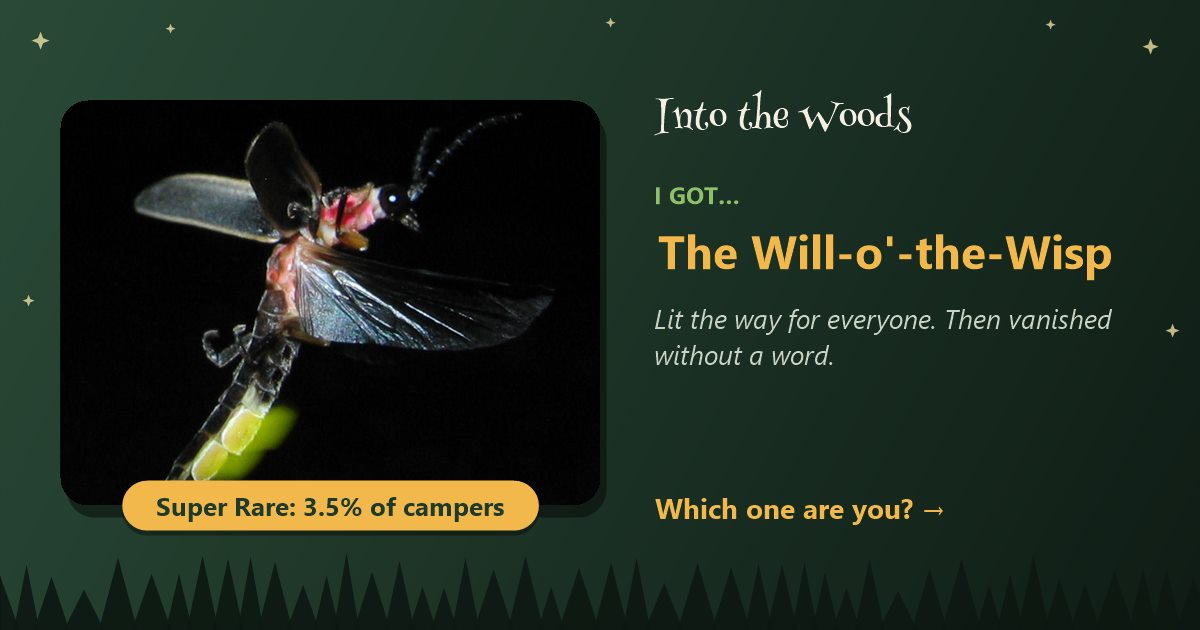
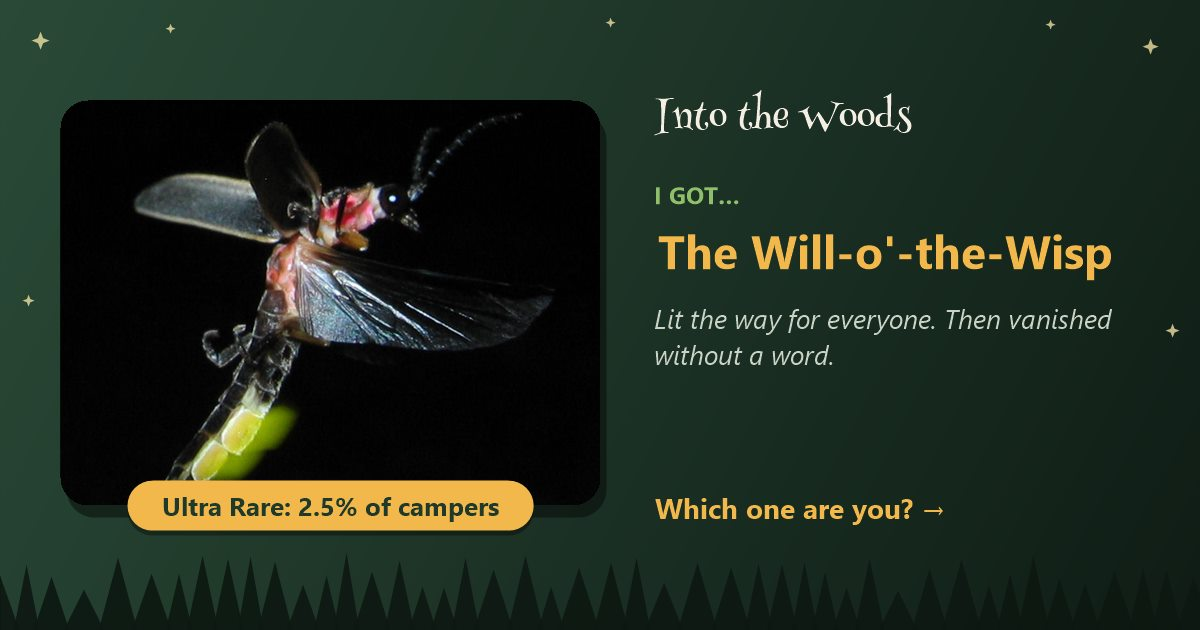
Remove logbook page, rewrite campsite answers, rebalance points
- Ranger's logbook page removed to shorten the story; its answers are
  retired so old share links still open.
- Campsite answers rewritten (two types each): sequined-hat life story
  (Bard/Glamper), leave half your snacks (Medic/Counselor), tent torn
  from the inside (Wanderer/Lookout). Old links map to the new answers.
- Pep talk back to "Pick a direction and GO."
- Rescue page: sheepish smile instead of a hug; Wisp 2 + Lone Wolf 1.
- Stick at the shadows: Trailblazer 2 + Lone Wolf 1.
- RARITY updated from 40,000 random runs; share cards regenerated.

Changed region(s): [[0.0925, 0.754, 0.4625, 0.8444]]

diff --git a/script.js b/script.js
@@ -65,14 +65,21 @@
    Then two Survivalist answers were rewritten as real Medic answers
    (page 4: "Find my friends before I find the road. I'm the one with
    the bear spray." and page 9: "Toward the crying. It sounds like
-   someone is hurt."). Last check (late Nov 2026): 12,000 random runs:
-     Medic 15.0, Counselor 15.0, Survivalist 11.1, Camper 9.1,
-     Scout 9.0, Glamper 8.3, Bard 7.7, Trailblazer 4.6, Mystic 4.6,
-     Lone Wolf 4.1, Schemer 3.5, Wisp 3.5, Lookout 2.4, Wanderer 2.2.
-   Known gap: the Trailblazer is high (4.6 vs 2), because the story has
-   lots of bold choices. Fix it with a rewritten answer, not points.
-   Someone who picks their own type's answer 60% of the time gets it
-   back 34-44% of the time for the rarest types and 51-92% for the rest.
+   someone is hurt.").
+   Nov 24, 2026: the ranger's logbook page was removed (story too long)
+   and the campsite rewritten to take over its Lookout, Wanderer and
+   Counselor answers. The Wisp and Trailblazer were about twice their
+   targets, so two of their answers now share a point with the Lone Wolf
+   (the silent ride home, and walking at the shadows with a stick).
+   Last check (Nov 24, 2026): 40,000 random runs:
+     Medic 17.8, Counselor 13.9, Survivalist 10.3, Bard 9.5, Scout 9.0,
+     Camper 8.3, Glamper 8.1, Lone Wolf 6.4, Mystic 4.0, Schemer 3.6,
+     Wanderer 3.2, Wisp 2.5, Trailblazer 1.9, Lookout 1.7.
+   Known gaps: the Survivalist and Counselor are a bit low and the Bard
+   and Lone Wolf a bit high. Fix them with rewritten answers, not points.
+   (Older check: someone who picks their own type's answer 60% of the
+   time got it back 34-44% of the time for the rarest types and 51-92%
+   for the rest. Not re-run since the logbook was removed.)
    These numbers are also the RARITY table further down: update both.
    Earlier check: a "sensible extrovert" (picks the reasonable
    extroverted answer 75% of the time) got the Lookout 0.1% of the time.
@@ -298,51 +305,31 @@ const ANSWERS = {
     text: "Took the backpack: finders keepers in bear country",
     points: { schemer: 2, lonewolf: 1 },
     outcome: "You yank the backpack down. Inside: cookies and a headlamp. The headlamp is dead. The cookies are not. You keep walking.",
-    next: "page-logbook",
-  },
-  iou: {
-    text: "Borrowed one granola bar and left a sorry note",
-    points: { medic: 2 },
-    outcome: "\"Sorry! I borrowed 1 granola bar (oat & honey).\" You tuck the note under a rock and keep walking.",
-    next: "page-logbook",
-  },
-  tentnap: {
-    text: "Rescued a real pillow from the torn tent",
-    points: { glamper: 2, camper: 1 },
-    outcome: "The tent is ripped and soaked, but the pillow is dry. You hug it to your chest and keep walking.",
-    next: "page-logbook",
-  },
-  backstory: {
-    text: "Looked through their stuff to figure out who lives there",
-    points: { bard: 2, mystic: 1 },
-    outcome: "A crossword, three harmonicas and a photo of a goat in a sweater. You decide it belongs to a retired magician, and leave before he gets back.",
-    next: "page-logbook",
-  },
-
-  // ----- The logbook (everyone sees it) -----
-  // Also gives the rarer types more chances. (The fairy folk move the markers.)
-  ownmarkers: {
-    text: "Stacked your own rock arrows",
-    points: { trailblazer: 1, lonewolf: 1 },
-    outcome: "You stack rocks into an arrow pointing the way you came. When you look back, it points somewhere else. You decide not to think about it. The sun is dropping fast.",
     next: "page5",
   },
-  readlog: {
-    text: "Read every entry to find the pattern",
-    points: { lookout: 2, survivalist: 1 },
-    outcome: "The markers only move on nights with a full moon. You check the sky. Full moon. Great. The sun is dropping fast.",
+  // (Rewritten Nov 2026 when the logbook was removed: every answer here
+  // gives two types, and it took over the logbook's Lookout and Wanderer
+  // answers.)
+  // Bard: makes up a whole story. Glamper +1: the sequins.
+  lounge: {
+    text: "Found a sequined hat and made up a life story for its owner",
+    points: { bard: 2, glamper: 1 },
+    outcome: "A sequined hat, a tube of glitter and a postcard from Las Vegas. She was a lounge singer, obviously. Retired, tragic and still fabulous. You put on the hat for her and keep walking.",
     next: "page5",
   },
-  writeback: {
-    text: "Signed the logbook with your name, the time and your direction",
-    points: { counselor: 2, scout: 1 },
-    outcome: "Name, time, \"heading downhill, please send snacks,\" plus a little smiley. Somehow, you feel less alone. The sun is dropping fast.",
+  // Medic: quiet care that costs you (your own food), Counselor: looking
+  // out for people you haven't even met.
+  leavesnacks: {
+    text: "Left half your snacks in the tent in case its owner came back hungry",
+    points: { medic: 2, counselor: 1 },
+    outcome: "One granola bar and half a bag of gummies, tucked neatly inside. Your stomach growls. You feel good anyway. You keep walking.",
     next: "page5",
   },
-  raccoons: {
-    text: "Came up with a theory: organized raccoons",
-    points: { wanderer: 2, schemer: 1 },
-    outcome: "Raccoons have thumbs. Raccoons hold grudges. It checks out. You're so proud of the theory that you barely notice the sun dropping.",
+  // Wanderer: gets lost in a theory. Lookout: notices the detail nobody else does.
+  tenttheory: {
+    text: "Sat down to work out why the tent was torn from the inside",
+    points: { wanderer: 2, lookout: 1 },
+    outcome: "Theory one: a bear. Theory two: the campers panicked. Theory three: something in these woods doesn't like tents. You're on theory eight when you notice the sun dropping.",
     next: "page5",
   },
 
@@ -439,7 +426,8 @@ const ANSWERS = {
   },
   stick: {
     text: "Grabbed a stick and walked straight at the shadows",
-    points: { trailblazer: 3 },
+    // Lone Wolf +1: walking into danger alone, no backup.
+    points: { trailblazer: 2, lonewolf: 1 },
     outcome: "You march at them, stick raised. Nothing there. And now you can't see your shelter.",
     next: "page9",
   },
@@ -623,9 +611,10 @@ const ANSWERS = {
     next: "result",
   },
   hush: {
-    text: "Hugged the ranger, then didn't say a word the whole ride home",
-    points: { wisp: 3 },
-    outcome: "You hug her like you've known her for years. Then hood up, not one more word. Your friends text \"are you ok??\" You leave them on read. You get home and sleep for eleven hours.",
+    text: "Gave the ranger a sheepish smile, then didn't say a word the whole ride home",
+    // Lone Wolf +1: going silent and leaving your friends on read.
+    points: { wisp: 2, lonewolf: 1 },
+    outcome: "You give her a sheepish, slightly sad smile. Then hood up, not one word. Your friends text \"are you ok??\" You leave them on read. You get home and sleep for eleven hours.",
     next: "result",
   },
   food: {
@@ -686,7 +675,12 @@ function setUpTiebreak() {
 // Answers from pages that were taken out of the quiz. Old share links may
 // still have them, so they're quietly dropped instead of breaking the link.
 //   carousel, saga, timeline, nexttrip: the group chat (removed)
-const RETIRED_CHOICES = ["carousel", "saga", "timeline", "nexttrip"];
+//   ownmarkers, readlog, writeback, raccoons: the ranger's logbook
+//     (removed Nov 2026 to shorten the story)
+const RETIRED_CHOICES = [
+  "carousel", "saga", "timeline", "nexttrip",
+  "ownmarkers", "readlog", "writeback", "raccoons",
+];
 
 // Answers that were swapped for a new one on the same page. Old share
 // links get the new answer instead.
@@ -697,7 +691,10 @@ const RETIRED_CHOICES = ["carousel", "saga", "timeline", "nexttrip"];
 //     more relatable answers, and to give extroverts grounded options
 //   stay, water: swapped (Nov 2026) for findthem and crying, two real
 //     Field Medic answers (the Medic was too rare)
+//   tentnap, iou, backstory: swapped (Nov 2026) for lounge, leavesnacks and
+//     tenttheory when the logbook was removed and the campsite rewritten
 const RENAMED_CHOICES = {
+  tentnap: "lounge", iou: "leavesnacks", backstory: "tenttheory",
   carve: "patterns", blame: "technically", omw: "bandaids", handled: "hush",
   bark: "yell", snacks: "film", left: "regroup", right: "sprayfirst", birdcall: "chatter", rocks: "yellback",
   stay: "findthem", water: "crying",
@@ -762,8 +759,8 @@ const STORY_EXTRAS = {
 
     // The empty campsite was the rangers' supply camp
     if (picked("raid")) lines.push(t("extra.raid", "\"Also, someone cleaned out our supply camp up the trail. Cookies, a headlamp...\" You chew very, very quietly."));
-    if (picked("iou")) lines.push(t("extra.iou", "\"And whoever left a sorry note at our supply camp over one granola bar: very polite. We appreciated it.\""));
-    if (picked("tentnap")) lines.push(t("extra.tentnap", "\"Weird thing. Somebody dug through our wrecked supply tent just to take the pillow.\" The pillow is under your arm right now."));
+    if (picked("lounge")) lines.push(t("extra.lounge", "\"Weird thing. Somebody took the sequined hat from our supply tent.\" It's on your head right now."));
+    if (picked("leavesnacks")) lines.push(t("extra.leavesnacks", "\"And whoever left snacks in our supply tent: that was really sweet. We ate them.\""));
 
     // The tiny door: a little surprise, or a little regret
     if (openedDoor) {
@@ -802,15 +799,15 @@ const STORY_EXTRAS = {
 // Last run: Nov 2026.
 // ---------------------------------------------------------
 const RARITY = {
-  medic: 15.0, counselor: 15.0, survivalist: 11.1, camper: 9.1,
-  scout: 9.0, glamper: 8.3, bard: 7.7, trailblazer: 4.6,
-  mystic: 4.6, lonewolf: 4.1, schemer: 3.5, wisp: 3.5,
-  lookout: 2.4, wanderer: 2.2,
+  medic: 17.8, counselor: 13.9, survivalist: 10.3, bard: 9.5,
+  scout: 9.0, camper: 8.3, glamper: 8.1, lonewolf: 6.4,
+  mystic: 4.0, schemer: 3.6, wanderer: 3.2, wisp: 2.5,
+  trailblazer: 1.9, lookout: 1.7,
 };
 // Rarity tiers, used on the result page and the story poster's sticker:
-// [tier, under this %]. With the Nov 2026 numbers:
-//   Ultra Rare = lookout, wanderer        Super Rare = schemer, wisp
-//   Rare = trailblazer, mystic, lonewolf  Uncommon = camper, scout, glamper, bard
+// [tier, under this %]. With the Nov 24, 2026 numbers:
+//   Ultra Rare = lookout, trailblazer, wisp   Super Rare = schemer, wanderer
+//   Rare = mystic, lonewolf                   Uncommon = bard, scout, camper, glamper
 //   Common = medic, counselor, survivalist
 const RARITY_TIERS = [
   ["ultraRare", 3],

diff --git a/ko.js b/ko.js
@@ -96,7 +96,7 @@ const KO = {
     "#page3 .question": `곰은 갔다. 근데 친구들도 갔다. 폰 배터리는 거의 바닥. 이제 어쩌지?`,
     "[data-choice='phone']": `남은 1%로 지도 앱에서 내 위치라도 찾아본다.`,
     "[data-choice='friends']": `누가 대답할 때까지 친구들 이름 목청껏 부른다.`,
-    "[data-choice='peptalk']": `소리 내서 셀프 응원: "할 수 있다! 숨 쉬어! 방향 정해!"`,
+    "[data-choice='peptalk']": `소리 내서 셀프 응원: "할 수 있다! 숨 쉬어! 방향 하나 정하고 GO!"`,
     "[data-choice='north']": `일단 앉아서 생각부터. 당황하면 같은 데서 뱅뱅 돌게 돼 있어.`,
 
     "#page4 .question": `폰이 꺼졌다. 어떡할래?`,
@@ -107,16 +107,9 @@ const KO = {
 
     "#page-camp .question": `나무 사이로 찢어진 주황색 텐트랑 나뭇가지에 걸린 배낭. 아무도 없다. 어떡할래?`,
     "[data-choice='raid']": `줍는 사람이 임자. 곰 나오는 데 가방 두고 간 건 본인 선택임.`,
-    "[data-choice='iou']": `그래놀라 바 하나만 빌리고 미안하다고 쪽지 남긴다.`,
-    "[data-choice='tentnap']": `텐트는 다 찢어졌는데 안에 진짜 베개 있음. 이제 내 거임.`,
-    "[data-choice='backstory']": `짐 뒤져 보면서 여기 누가 사는지 추리한다.`,
-
-    // The logbook
-    "#page-logbook .question": `기둥에 구조대 일지가 못 박혀 있다. 마지막 기록: "이 숲에 있는 뭔가가 자꾸 등산로 표지판을 옮김." 어떡할래?`,
-    "[data-choice='ownmarkers']": `돌로 화살표 직접 쌓는다. 쟤네 건 못 믿어.`,
-    "[data-choice='readlog']": `해 지기 전에 기록 전부 읽고 패턴 찾는다.`,
-    "[data-choice='writeback']": `일지에 내 이름, 시간, 방향 적어 둔다. 혹시 모르니까.`,
-    "[data-choice='raccoons']": `20분짜리 가설 세운다. 범인은 너구리. 조직적인 너구리.`,
+    "[data-choice='lounge']": `텐트에서 반짝이 모자 발견. 주인 인생 스토리 하나 다 지어낸다. 왕년에 라운지 가수였음. 당연함.`,
+    "[data-choice='leavesnacks']": `내 간식 반은 텐트에 두고 간다. 주인 돌아오면 배고플 수도 있잖아.`,
+    "[data-choice='tenttheory']": `잠깐, 텐트가 왜 안에서부터 찢어졌지? 앉아서 제대로 추리해 본다.`,
 
     "#page5 .question": `해가 지는데 아직 잘 곳이 없다. 쓰러진 큰 나무 하나, 이 정도면 꽤 괜찮은 잠자리다. 어떡할래?`,
     "[data-choice='leaves']": `마른 낙엽 긁어모아서 침대 만든다. 최대한 아늑하게.`,
@@ -181,7 +174,7 @@ const KO = {
     "#page11 .question": `구조대원이 은박 담요를 둘러 주고 핫초코를 건넨다. "자, 거기서 무슨 일이 있었던 거예요?"`,
     "[data-choice='technically']": `"엄밀히 말하면, 저 길 잃은 적 없는데요."`,
     "[data-choice='askfriends']": `"제 친구들은 괜찮아요?"`,
-    "[data-choice='hush']": `구조대원 꼭 안아 주고, 집 가는 내내 입 꾹 닫기.`,
+    "[data-choice='hush']": `구조대원한테 머쓱하게 살짝 웃어 주고, 집 가는 내내 한 마디도 안 하기.`,
     "[data-choice='food']": `"...혹시 먹을 거 있어요?"`,
 
     // Tiebreaker (only when your top two types are neck and neck)
@@ -317,14 +310,9 @@ const KO = {
     findthem: `몇 걸음마다 친구들 이름 부른다. 아직 대답은 없다. 그래도 계속 간다. 아까보다 조금 더 빨리.`,
 
     raid: `나뭇가지에서 배낭을 확 낚아챈다. 안에 쿠키랑 헤드랜턴. 헤드랜턴은 배터리 나갔다. 쿠키는 멀쩡하다. 계속 걷는다.`,
-    iou: `"미안! 그래놀라 바 1개 (오트 & 허니) 빌려감." 쪽지를 돌 밑에 끼워 두고 계속 걷는다.`,
-    tentnap: `텐트는 찢어지고 흠뻑 젖었다. 근데 베개는 뽀송뽀송. 꼭 끌어안고 계속 걷는다.`,
-    backstory: `십자말풀이, 하모니카 세 개, 스웨터 입은 염소 사진. 은퇴한 마술사 집으로 결론 내리고, 그가 돌아오기 전에 뜬다.`,
-
-    ownmarkers: `돌을 쌓아서 왔던 방향으로 화살표를 만든다. 뒤돌아보니 화살표가 딴 데를 가리킨다. 생각 안 하기로 한다. 해가 빠르게 지고 있다.`,
-    readlog: `표지판은 보름달 뜨는 밤에만 움직인다. 하늘을 본다. 보름달이다. 아주 좋네. 해가 빠르게 지고 있다.`,
-    writeback: `이름, 시간, "내리막 쪽으로 감. 간식 좀 보내 주셈." 스마일까지. 왠지 덜 외롭다. 해가 빠르게 지고 있다.`,
-    raccoons: `너구리는 엄지가 있다. 너구리는 뒤끝이 있다. 앞뒤가 딱 맞는다. 가설이 너무 뿌듯해서 해 지는 것도 거의 못 알아챈다.`,
+    lounge: `반짝이 모자, 글리터 한 통, 라스베이거스 엽서 한 장. 왕년에 라운지 가수였던 게 분명하다. 은퇴했고, 비극적이고, 아직도 멋짐. 그녀를 위해 모자 쓰고 계속 걷는다.`,
+    leavesnacks: `그래놀라 바 하나, 젤리 반 봉지. 텐트 안에 가지런히 놔둔다. 배에서 꼬르륵. 그래도 뿌듯하다. 계속 걷는다.`,
+    tenttheory: `가설 1: 곰. 가설 2: 캠핑하던 사람들이 패닉. 가설 3: 이 숲의 뭔가가 텐트를 싫어함. 가설 8쯤 왔을 때, 해가 지고 있다는 걸 알아챈다.`,
 
     leaves: `낙엽 침대 아늑하다. 뭐, 아늑한 편이다.`,
     fire: `물집 세 개, 욕 한 바가지 끝에 [[연기 풀풀 나는 작은 불]]을 피웠다.`,
@@ -378,7 +366,7 @@ const KO = {
 
     technically: `"제가 어디 있는지 정확히 알았거든요. 여기요." 구조대원이 입을 열었다가, 다물고, 클립보드에 "안 길 잃음"이라고 적는다. 차 얻어 타고 집에 가서 11시간 기절.`,
     askfriends: `"다들 괜찮아요. 한 명이 좀 울긴 했는데." 차 얻어 타고 집에 가서 11시간 기절.`,
-    hush: `오래 알던 사람처럼 구조대원을 꽉 안아 준다. 그러고 후드 푹, 한 마디도 더 안 함. 친구들한테 "괜찮아??" 카톡 옴. 읽씹. 집에 가서 11시간 기절.`,
+    hush: `구조대원한테 머쓱하고 좀 슬픈 미소 한 번. 그러고 후드 푹, 한 마디도 안 함. 친구들한테 "괜찮아??" 카톡 옴. 읽씹. 집에 가서 11시간 기절.`,
     food: `구조대원이 그래놀라 바를 찾아 준다. 두 입 만에 해치우고 하나 더 있냐고 묻는다. 차 얻어 타고 집에 가서 11시간 기절.`,
   },
 
@@ -405,8 +393,8 @@ const KO = {
     "extra.fire": `"그리고 여기서 다시는 불 피우지 마세요. 제발요."`,
     "extra.hoard": `주머니 속 비밀 견과류가 바스락거린다. 입 꾹 다문다.`,
     "extra.raid": `"아, 그리고 누가 등산로 위쪽 우리 보급 캠프를 싹 털어 갔더라고요. 쿠키에, 헤드랜턴에..." 아주, 아주 조용히 씹는다.`,
-    "extra.iou": `"그리고 그래놀라 바 하나 때문에 우리 보급 캠프에 미안하다고 쪽지 남기신 분, 완전 예의 바르시던데요. 감동받음."`,
-    "extra.tentnap": `"이상한 게, 누가 다 망가진 우리 보급 텐트를 뒤져서 베개만 쏙 가져갔어요." 그 베개, 지금 네 겨드랑이에 끼워져 있다.`,
+    "extra.lounge": `"이상한 게, 누가 우리 보급 텐트에서 반짝이 모자를 가져갔어요." 그 모자, 지금 네 머리 위에 있다.`,
+    "extra.leavesnacks": `"그리고 우리 보급 텐트에 간식 두고 가신 분, 진짜 스윗했어요. 맛있게 먹었어요."`,
     "extra.fairyTold": `구조대원한테 요정 얘기를 한다. 구조대원이 보라색 손가락을 본다. "네, 그러시겠죠."`,
     "extra.note.kicked": `열쇠가 있던 주머니에 우표만 한 쪽지가 있다: "열쇠 고마워. 근데 문 값은 갚아라. — F."`,
     "extra.note.thanks": `열쇠가 있던 주머니에 우표만 한 쪽지가 있다: "열쇠 고마워. 인간이 춤추는 거 오랜만에 봤어. — F."`,

diff --git a/index.html b/index.html
@@ -143,7 +143,7 @@
       <div class="answers">
         <button class="answer-btn" data-choice="phone">Use my last 1% to try to find myself on the map.</button>
         <button class="answer-btn" data-choice="friends">Yell for my friends until somebody yells back.</button>
-        <button class="answer-btn" data-choice="peptalk">Pep talk, out loud: "You've GOT this. Breathe. Pick a direction."</button>
+        <button class="answer-btn" data-choice="peptalk">Pep talk, out loud: "You've GOT this. Breathe. Pick a direction and GO."</button>
         <button class="answer-btn" data-choice="north">Sit and think first. Panicking is how people walk in circles.</button>
       </div>
     </section>
@@ -170,24 +170,9 @@
       </h2>
       <div class="answers">
         <button class="answer-btn" data-choice="raid">Finders keepers. Whoever leaves a bag in bear country made their choice.</button>
-        <button class="answer-btn" data-choice="iou">Borrow one granola bar and leave a sorry note.</button>
-        <button class="answer-btn" data-choice="tentnap">The tent's shredded, but there's a real pillow inside. It's mine now.</button>
-        <button class="answer-btn" data-choice="backstory">Look through their stuff and figure out who lives here.</button>
-      </div>
-    </section>
-
-    <!-- THE LOGBOOK — After the campsite, before the fallen tree (everyone sees it).
-         Also built for the rarer types. (The fairy folk have been moving the markers.) -->
-    <section id="page-logbook" class="page page-story" hidden>
-      <div class="story"></div>
-      <h2 class="question" tabindex="-1">
-        A ranger's logbook is nailed to a post. The last entry: "Something in these woods keeps moving the trail markers." What do you do?
-      </h2>
-      <div class="answers">
-        <button class="answer-btn" data-choice="ownmarkers">Stack my own rock arrows. I'm not trusting theirs.</button>
-        <button class="answer-btn" data-choice="readlog">Read every entry and find the pattern before dark.</button>
-        <button class="answer-btn" data-choice="writeback">Sign the logbook with my name, the time and my direction. Just in case.</button>
-        <button class="answer-btn" data-choice="raccoons">Come up with a twenty-minute theory. It's raccoons. Organized raccoons.</button>
+        <button class="answer-btn" data-choice="lounge">Find a sequined hat in the tent and make up a whole life story for its owner. She was a lounge singer. Obviously.</button>
+        <button class="answer-btn" data-choice="leavesnacks">Leave half my snacks in the tent. Whoever lives here might come back hungry.</button>
+        <button class="answer-btn" data-choice="tenttheory">Wait. Why is the tent torn from the INSIDE? Sit down and work it out.</button>
       </div>
     </section>
 
@@ -362,7 +347,7 @@
       <div class="answers">
         <button class="answer-btn" data-choice="technically">"Technically, I was never lost."</button>
         <button class="answer-btn" data-choice="askfriends">"Are my friends okay?"</button>
-        <button class="answer-btn" data-choice="hush">Hug her. Then go quiet the whole ride home.</button>
+        <button class="answer-btn" data-choice="hush">Give her a sheepish little smile. Then don't say a word the whole ride home.</button>
         <button class="answer-btn" data-choice="food">"...Is there any food?"</button>
       </div>
     </section>
